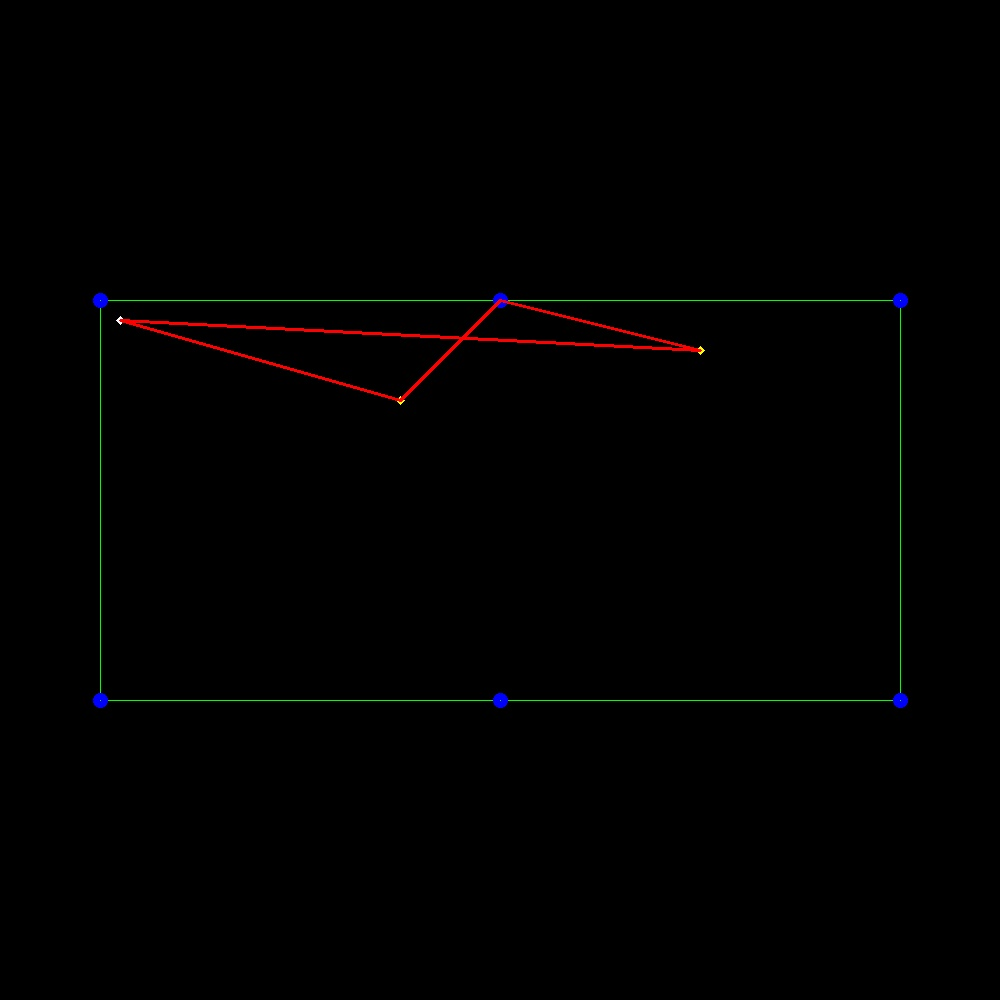
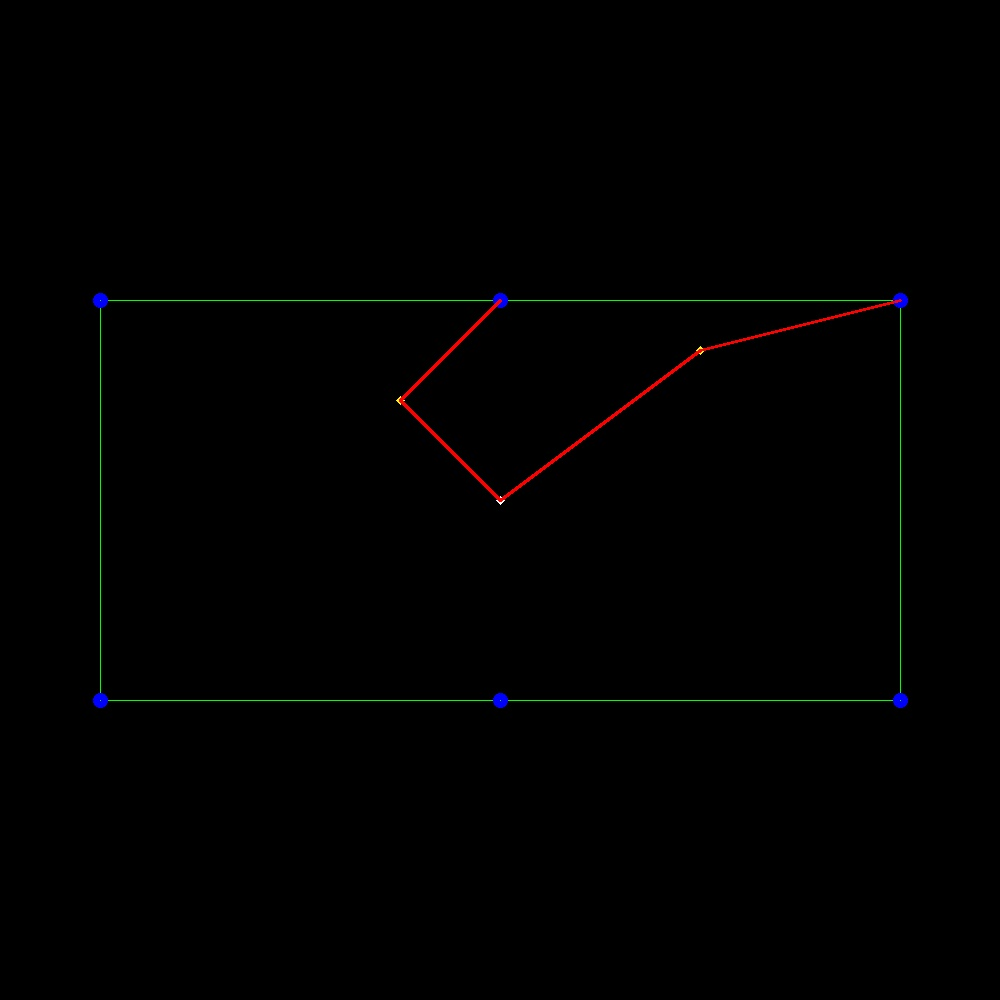
Removing Impossible Pockets Succesfully

diff --git a/shot_calculation.py b/shot_calculation.py
@@ -98,8 +98,8 @@ pockets = [[100,300],[500,300],[900,300],[900,700],[500,700],[100,700]]
 
 
 #A list of X and Y coordinates for each ball
-listX = [120,700,400,-1,-1,-1,-1,-1,-1,-1,-1,-1,-1,-1,-1,-1]
-listY = [320,350,400,-1,-1,-1,-1,-1,-1,-1,-1,-1,-1,-1,-1,-1]
+listX = [500,700,400,-1,-1,-1,-1,-1,-1,-1,-1,-1,-1,-1,-1,-1]
+listY = [500,350,400,-1,-1,-1,-1,-1,-1,-1,-1,-1,-1,-1,-1,-1]
 
 
 
@@ -392,8 +392,45 @@ def remove_impossible_pockets():
     for target_ball in range(FIRST_BALL, NUMBER_OF_BALLS):
         if(listX[target_ball]<0 or listY[target_ball]<0): continue
         shot_params=ball_to_shots.get(target_ball)
-        x_bounds = balls_to_x_boundary.get(target_ball )
+        x_bounds = balls_to_x_boundary.get(target_ball)
         y_bounds = balls_to_y_boundary.get(target_ball)
+        if(listX[CUE_BALL] == listX[target_ball]):
+            pocket_idx = 0
+            for pocket in pockets: 
+                if(pocket[POCKETY]<listY[target_ball]):
+                    shot_params[DISTANCES][pocket_idx] = np.nan
+                    shot_params[SECOND_SLOPES][pocket_idx] = np.nan
+                    shot_params[SECOND_INTERCEPT][pocket_idx] = np.nan
+                    pocket_idx+=1
+        elif(listX[CUE_BALL]<listX[target_ball]):
+            pocket_idx = 0
+            for pocket in pockets: 
+                if (pocket_idx<3):
+                    if(pocket[POCKETX]<x_bounds[0]):
+                        shot_params[DISTANCES][pocket_idx] = np.nan
+                        shot_params[SECOND_SLOPES][pocket_idx] = np.nan
+                        shot_params[SECOND_INTERCEPT][pocket_idx] = np.nan
+                else:
+                    if(pocket[POCKETX]<x_bounds[1]):
+                        shot_params[DISTANCES][pocket_idx] = np.nan
+                        shot_params[SECOND_SLOPES][pocket_idx] = np.nan
+                        shot_params[SECOND_INTERCEPT][pocket_idx] = np.nan
+                pocket_idx+=1
+        else:
+            pocket_idx = 0
+            for pocket in pockets:
+                if (pocket_idx<3):
+                    if(pocket[POCKETX]>x_bounds[0]):
+                        shot_params[DISTANCES][pocket_idx] = np.nan
+                        shot_params[SECOND_SLOPES][pocket_idx] = np.nan
+                        shot_params[SECOND_INTERCEPT][pocket_idx] = np.nan
+                else:
+                    if(pocket[POCKETX]>x_bounds[1]):
+                        shot_params[DISTANCES][pocket_idx] = np.nan
+                        shot_params[SECOND_SLOPES][pocket_idx] = np.nan
+                        shot_params[SECOND_INTERCEPT][pocket_idx] = np.nan
+                pocket_idx+=1
+        
 
 def chose_pocket():
     if(listX[CUE_BALL]<0 or listY[CUE_BALL]<0): return
@@ -423,7 +460,7 @@ find_distance_to_all_pockets();
 create_first_lines();
 create_second_lines();
 find_edges();
-#remove_impossible_pockets();
+remove_impossible_pockets();
 print_dimensions();
 chose_pocket();
 drawImage();
